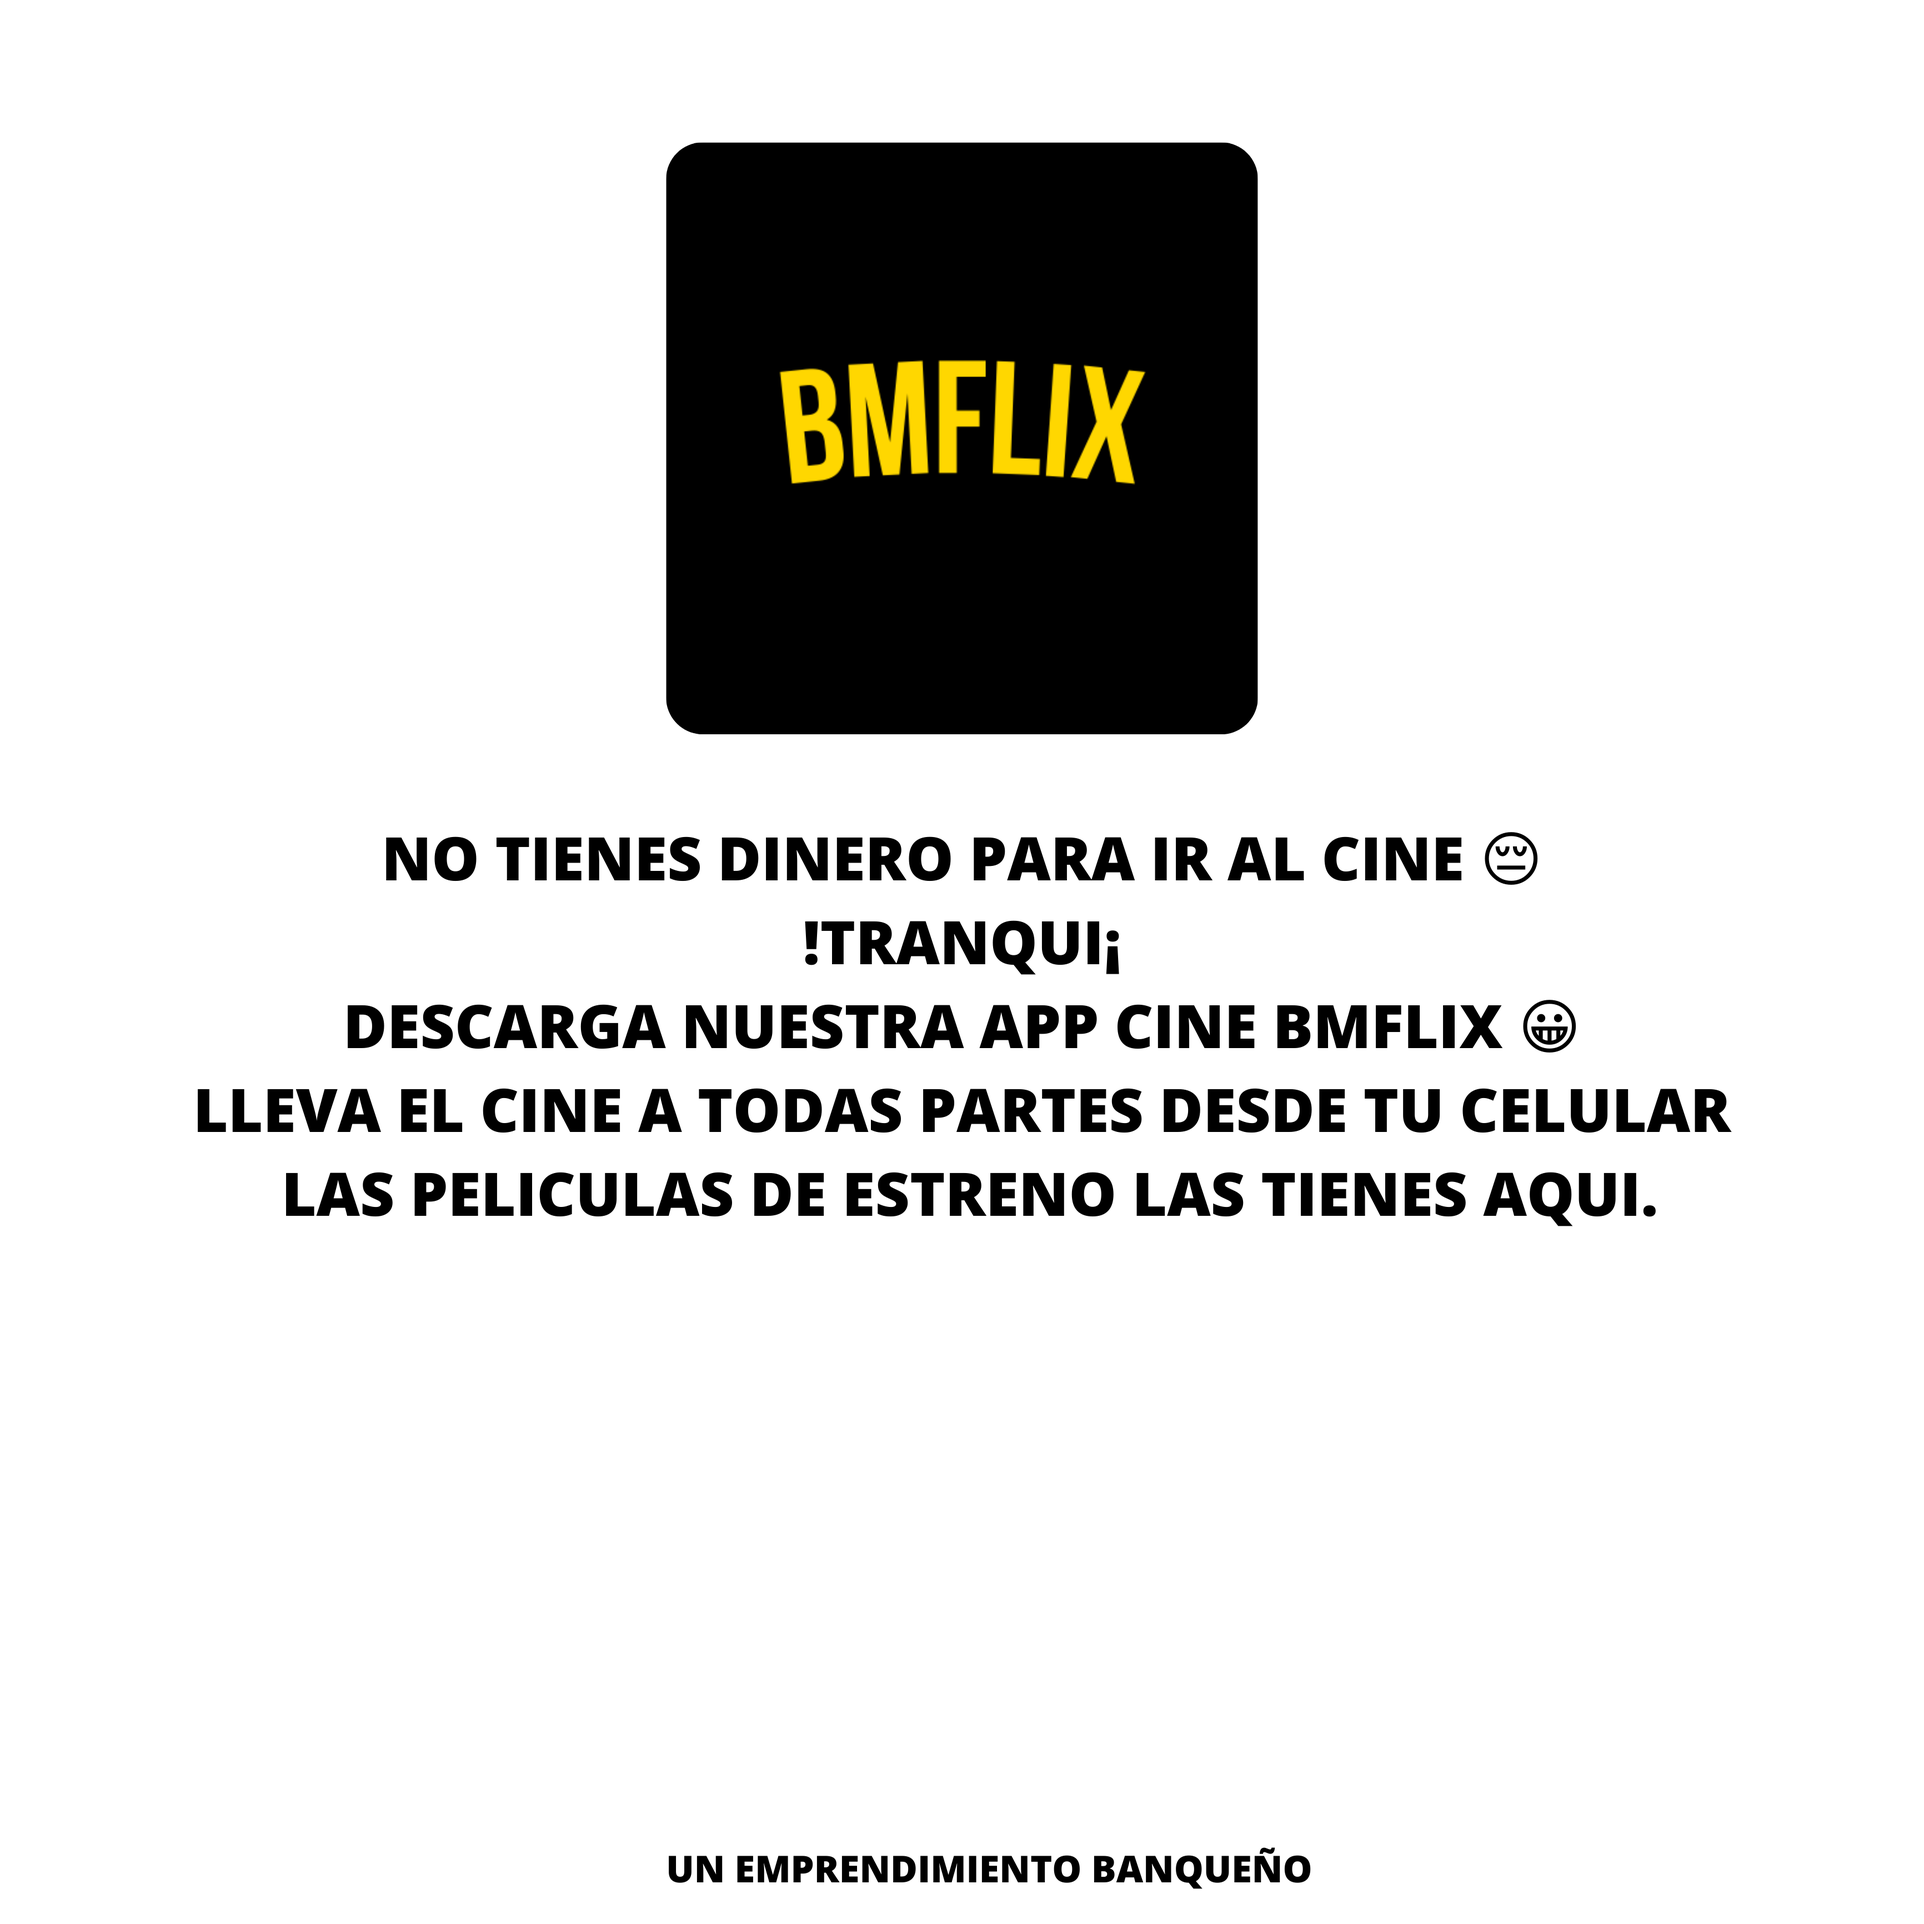
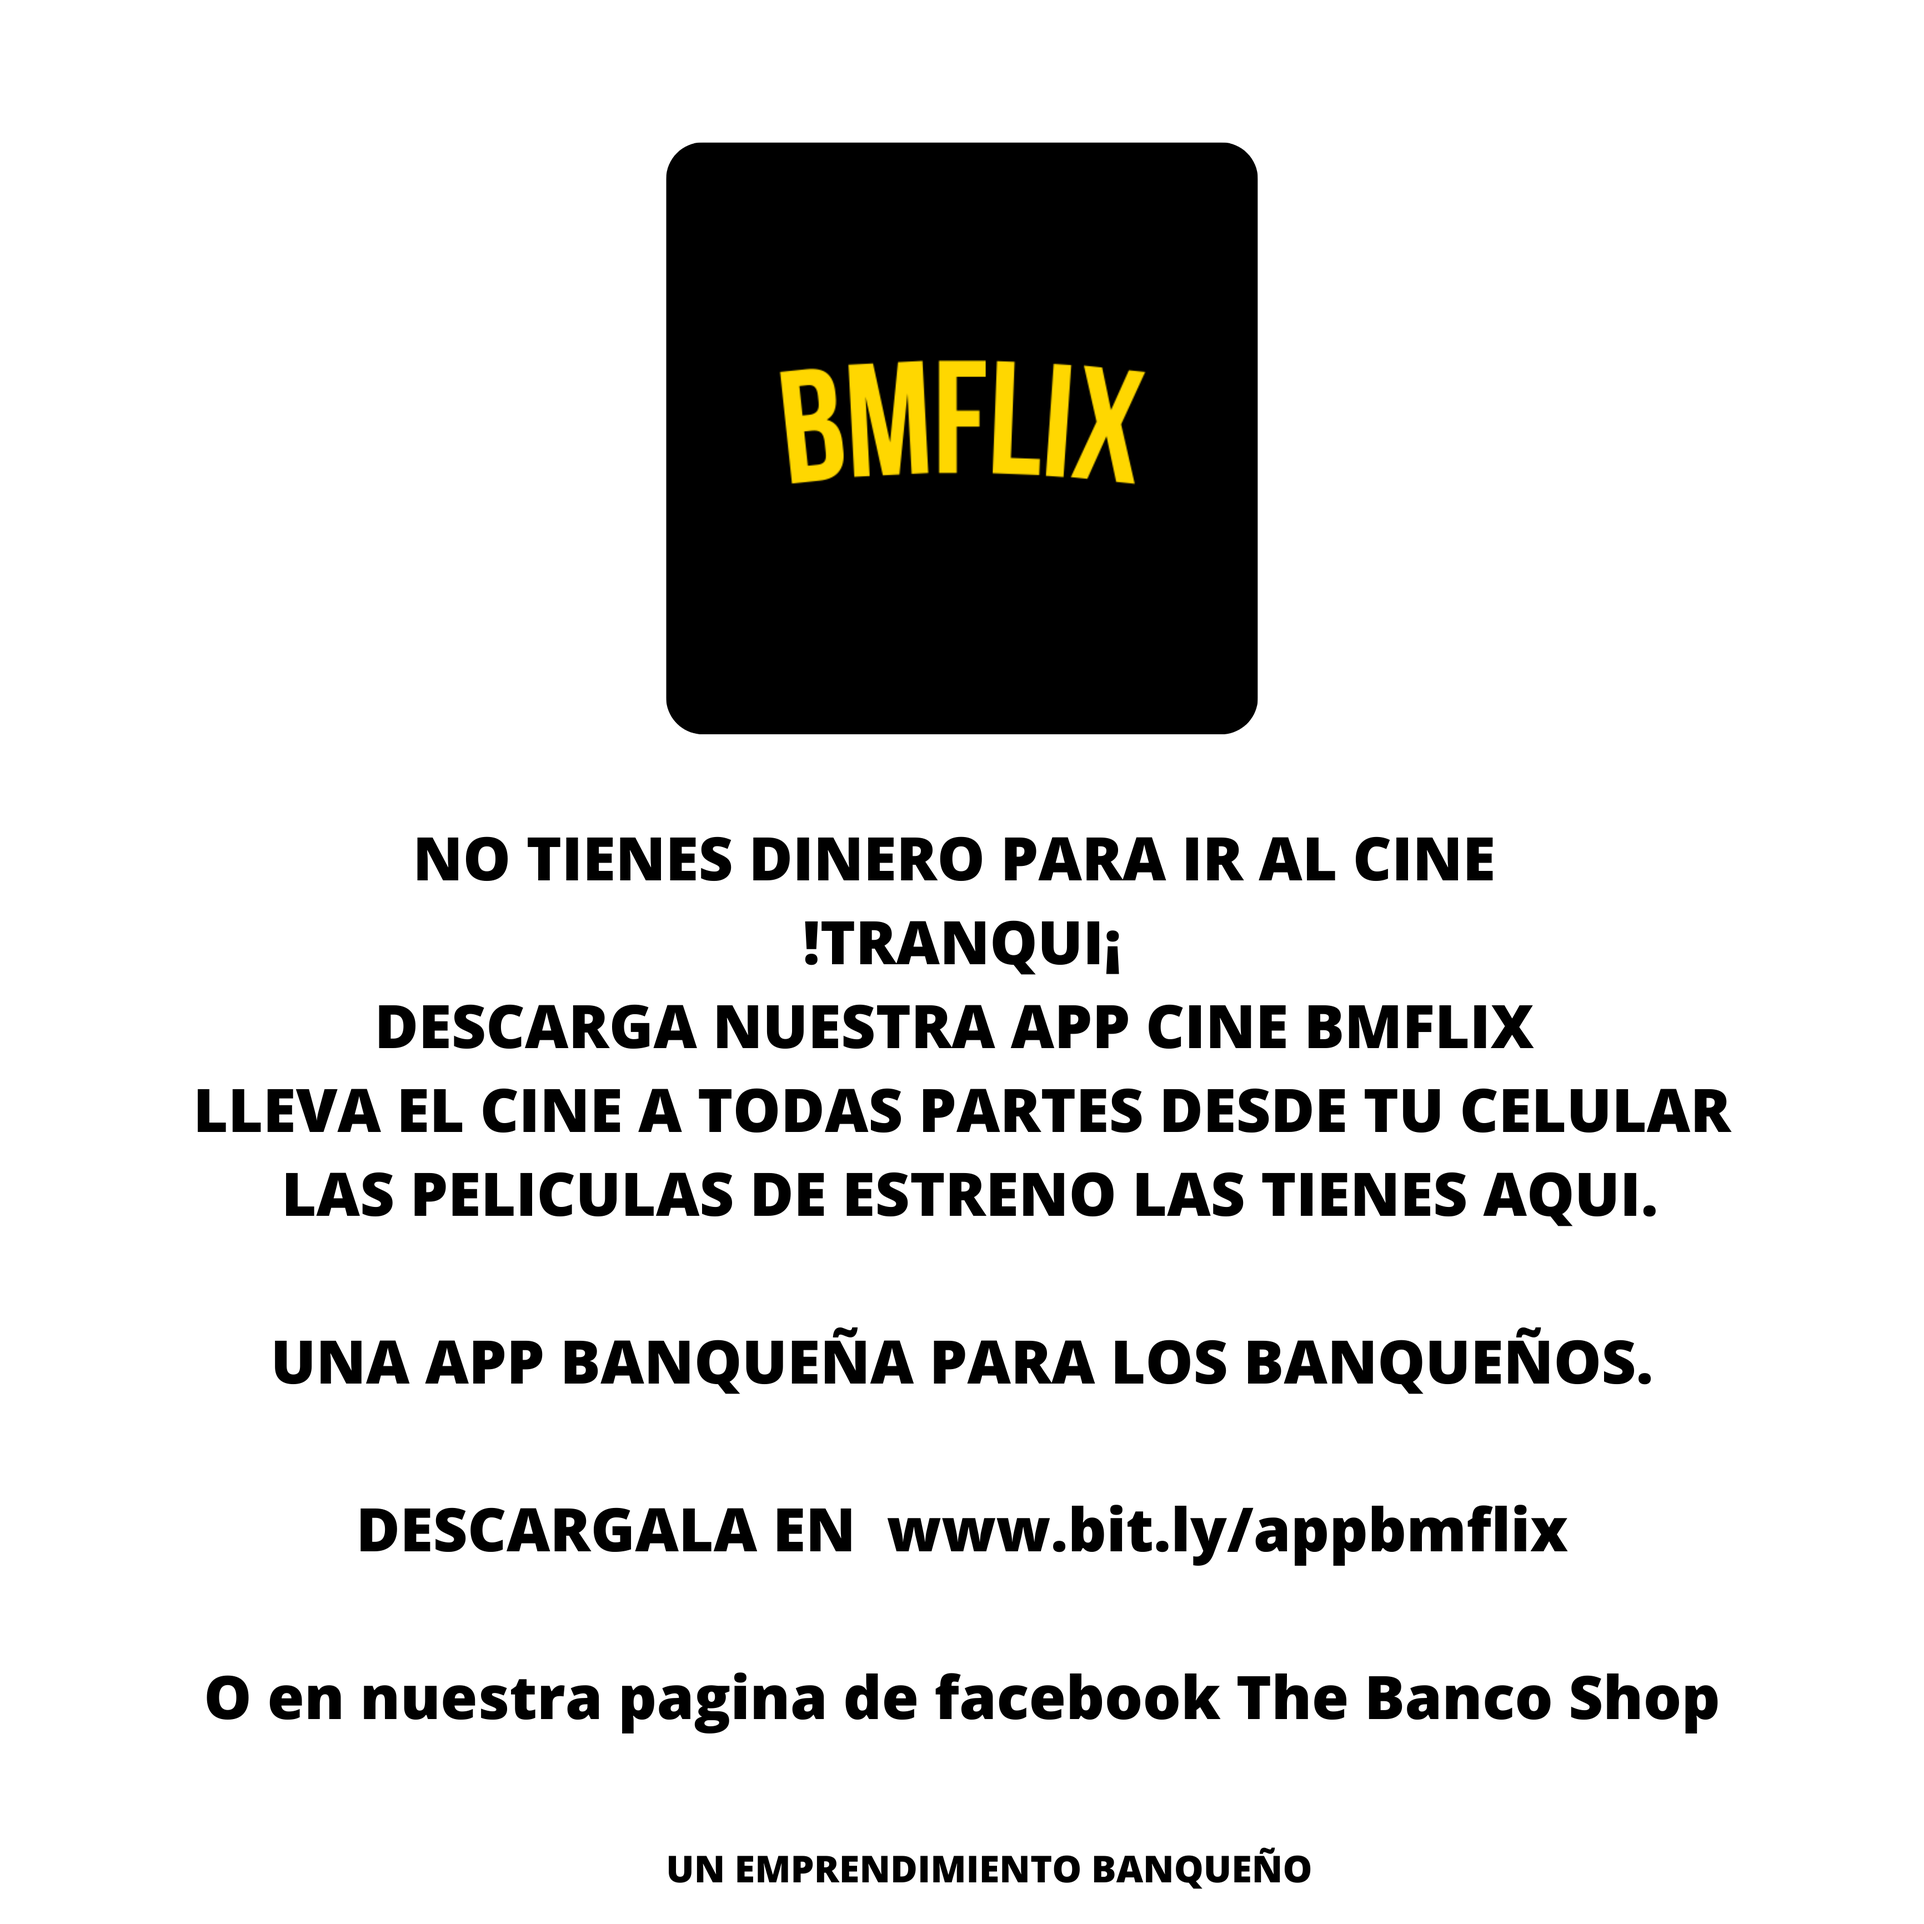
cambios en el sponsor

diff --git a/index.html b/index.html
@@ -536,7 +536,7 @@
 
           <div class="col-md-6">
             <div class="img-box">
-              <a href="https://drive.google.com/file/d/1I7HhdBavScfUZTz_wqR14mVtkJUzqL9e/view?usp=sharing">
+            
               <img src="images/anuncio_bmflix.png" alt="">
             </div>
           </div>
@@ -637,14 +637,14 @@
           <div class="footer_contact">
 
             <div class="contact_link_box">
-              <a href="https://goo.gl/maps/xyYGRp4A2CbY8MVg8">
+              <a href="#">
                 <i class="fa fa-map-marker" aria-hidden="true"></i>
                 <span>
                   EL BANCO MAGDALENA
                 </span>
               </a>
 
-              <a href="mailto:thebancoshop@gmail.com">
+              <a href="#">
                 <i class="fa fa-envelope" aria-hidden="true"></i>
                 <span>
                   thebancoshop@gmail.com
